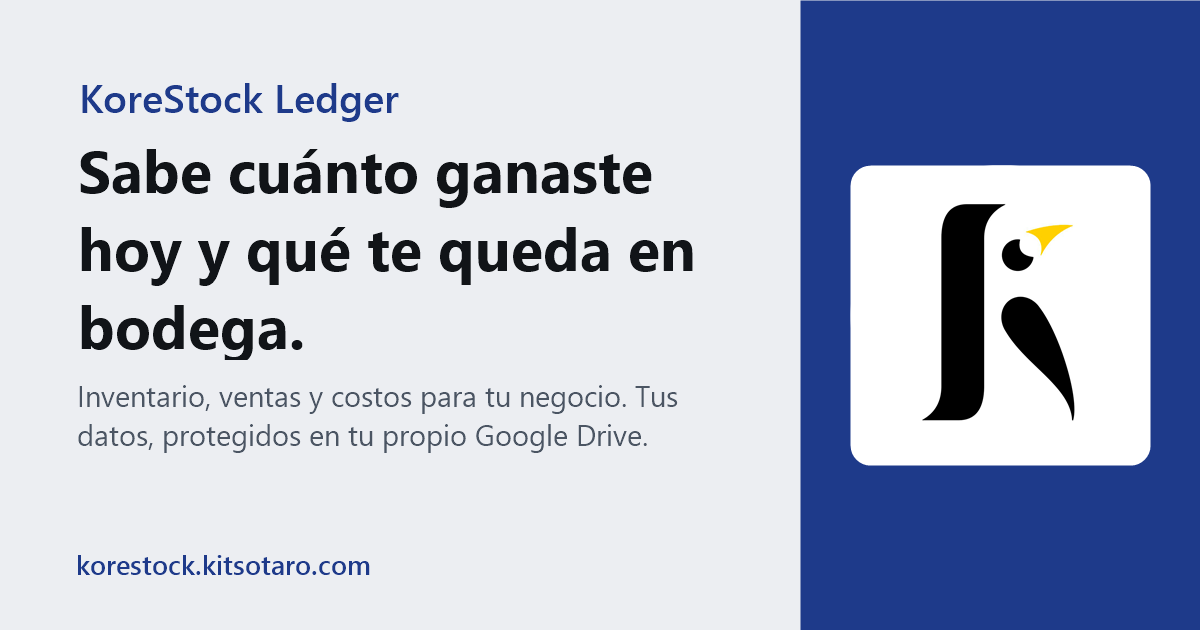
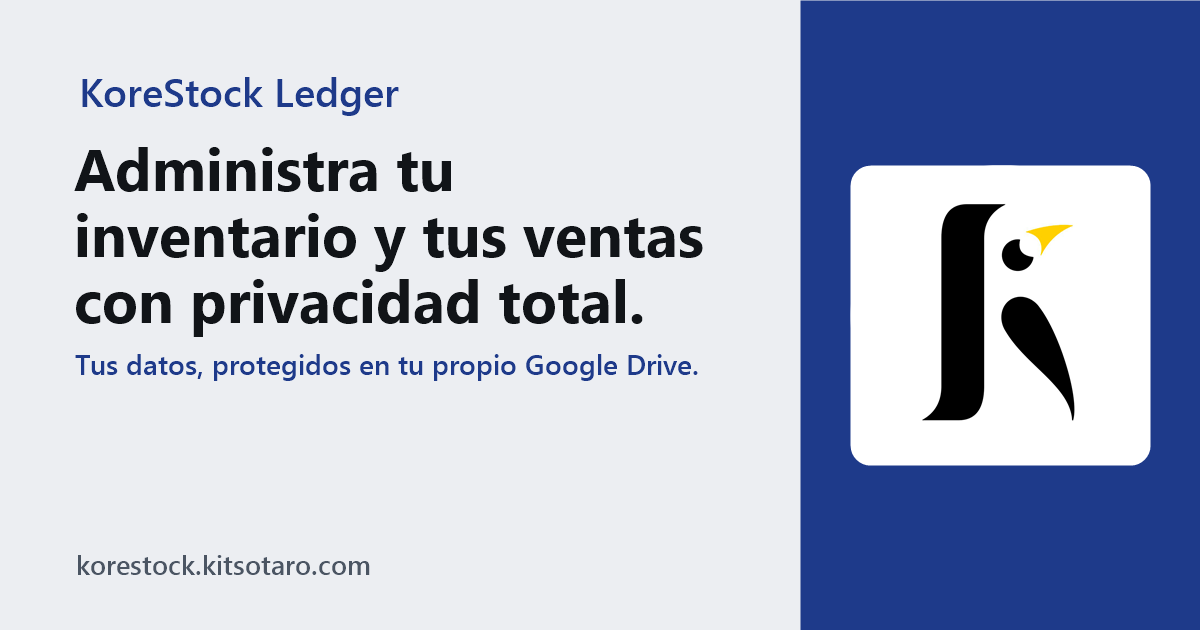
v2.6.31 — Portada con texto nuevo y presentación de capturas; imagen para compartir ajustada

Changed region(s): [[0.0617, 0.2413, 0.5858, 0.7238], [0.0617, 0.1206, 0.3392, 0.2111], [0.0617, 0.8746, 0.3083, 0.9349]]

diff --git a/index.html b/index.html
@@ -4,7 +4,7 @@
   <meta charset="UTF-8">
   <meta name="viewport" content="width=device-width, initial-scale=1, viewport-fit=cover">
   <title>KoreStock Ledger — inventario, ventas y costos para tu negocio</title>
-  <meta name="description" content="Controla tu inventario, ventas y costos desde el teléfono. Sabe cuánto ganaste hoy y qué te queda en bodega. Tus datos viven en tu propio Google Drive.">
+  <meta name="description" content="Administra tu inventario y tus ventas con privacidad total. Tus datos, protegidos en tu propio Google Drive. Registras compras y ventas en segundos y la app calcula tu stock y tu ganancia.">
   <meta name="theme-color" content="#ECEEF2">
   <link rel="canonical" href="https://korestock.kitsotaro.com/">
   <meta name="robots" content="index, follow">
@@ -14,15 +14,15 @@
   <meta property="og:locale" content="es_419">
   <meta property="og:url" content="https://korestock.kitsotaro.com/">
   <meta property="og:title" content="KoreStock Ledger — inventario, ventas y costos para tu negocio">
-  <meta property="og:description" content="Sabe cuánto ganaste hoy y qué te queda en bodega. Registra compras y ventas desde el teléfono; tus datos viven en tu propio Google Drive.">
+  <meta property="og:description" content="Administra tu inventario y tus ventas con privacidad total. Tus datos, protegidos en tu propio Google Drive.">
   <meta property="og:image" content="https://korestock.kitsotaro.com/assets/og-imagen.png">
   <meta property="og:image:width" content="1200">
   <meta property="og:image:height" content="630">
-  <meta property="og:image:alt" content="KoreStock Ledger: sabe cuánto ganaste hoy y qué te queda en bodega.">
+  <meta property="og:image:alt" content="KoreStock Ledger: administra tu inventario y tus ventas con privacidad total.">
   <meta name="twitter:card" content="summary_large_image">
   <meta name="twitter:image" content="https://korestock.kitsotaro.com/assets/og-imagen.png">
   <meta name="twitter:title" content="KoreStock Ledger">
-  <meta name="twitter:description" content="Inventario, ventas y costos para tu negocio, desde el teléfono. Tus datos en tu Google Drive.">
+  <meta name="twitter:description" content="Administra tu inventario y tus ventas con privacidad total. Tus datos, protegidos en tu propio Google Drive.">
   <link rel="manifest" href="manifest.json">
   <link rel="icon" href="assets/favicon-48.png" sizes="48x48" type="image/png">
   <link rel="icon" href="assets/icono-192.png" sizes="192x192" type="image/png">
@@ -70,38 +70,31 @@
       <section class="portada">
         <div class="portada-texto">
           <p class="antetitulo">Inventario · Ventas · Costos</p>
-          <h1>Sabe cuánto ganaste hoy y qué te queda en bodega.</h1>
+          <h1>Administra tu inventario y tus ventas con privacidad total.</h1>
           <p class="portada-destacado">Tus datos, protegidos en tu propio Google Drive.</p>
-          <p class="portada-sub">KoreStock lleva el control de tu negocio desde el teléfono: registras compras y ventas en segundos y la app calcula tu stock, tu ganancia y lo que conviene reabastecer. Tus datos viven en tu propio Google Drive.</p>
+          <p class="portada-sub">KoreStock lleva el control de tu negocio desde donde quieras: registras compras y ventas en segundos y la app calcula tu stock, tu ganancia y en qué conviene invertir.</p>
           <div class="portada-acciones">
             <button type="button" class="boton boton-primario boton-grande" data-accion="entrar" id="boton-entrar">Iniciar sesión con Google</button>
             <p class="estado-entrada" id="estado-entrada" role="status" aria-live="polite"></p>
           </div>
           <p class="portada-legal">Al entrar aceptas los <a href="TERMS.md" data-documento="TERMS.md" data-titulo="Términos de servicio">Términos de servicio</a> y la <a href="PRIVACY.md" data-documento="PRIVACY.md" data-titulo="Política de privacidad">Política de privacidad</a>.</p>
         </div>
-        <!-- Maqueta animada de la app (decorativa, solo HTML y CSS): las ventas del día
-             van entrando y la tarjeta «Hoy» se actualiza. Quieta si se pide menos movimiento. -->
-        <div class="portada-maqueta" id="maqueta-portada" aria-hidden="true">
-          <div class="maqueta-telefono">
-            <div class="maqueta-barra"><span class="maqueta-menu"></span><strong>Dashboard</strong><span class="maqueta-pildora">Hoy</span></div>
-            <div class="maqueta-hoy">
-              <div class="maqueta-hoy-cifras">
-                <div><span class="maqueta-etiqueta">Vendido hoy</span>
-                  <span class="maqueta-cifra"><span class="paso-1">$84.60</span><span class="paso-2">$97.10</span><span class="paso-3">$128.40</span></span>
-                  <span class="maqueta-detalle">↑ 18 % vs. ayer</span></div>
-                <div class="maqueta-ganancia"><span class="maqueta-etiqueta">Ganancia</span><strong><span class="paso-1">$21.15</span><span class="paso-2">$24.30</span><span class="paso-3">$32.10</span></strong></div>
-              </div>
-              <div class="maqueta-accesos"><span>Vender</span><span>Comprar</span><span>Gasto</span><span>Stock</span></div>
-            </div>
-            <div class="maqueta-lista">
-              <div class="maqueta-dia"><span>HOY</span><span>Vendido $128.40</span></div>
-              <div class="maqueta-fila nueva-2"><span class="maqueta-insignia venta">Venta</span><span class="crece"><b>Pepsi Lata 355 ml</b><i>2 cajas de 12 · TK-000214</i></span><b>$31.30</b></div>
-              <div class="maqueta-fila nueva-1"><span class="maqueta-insignia venta">Venta</span><span class="crece"><b>Huevo Cartón 30</b><i>1 cartón · TK-000213</i></span><b>$12.50</b></div>
-              <div class="maqueta-fila"><span class="maqueta-insignia entrada">Entrada</span><span class="crece"><b>Agua Botella 600 ml</b><i>3 fardos de 24 · IN-000088</i></span><b>$43.20</b></div>
-              <div class="maqueta-fila"><span class="maqueta-insignia venta">Venta</span><span class="crece"><b>Coca Cola Vidrio 1.5 L</b><i>6 botellas · TK-000212</i></span><b>$10.80</b></div>
-              <div class="maqueta-fila"><span class="maqueta-insignia venta">Venta</span><span class="crece"><b>Diana Tortillitas 30 g</b><i>10 bolsas · TK-000211</i></span><b>$4.00</b></div>
-            </div>
-            <div class="maqueta-isla"><span></span><span></span><span class="maqueta-mas">+</span><span></span><span></span></div>
+        <!-- Capturas de la app en un contenedor de tamaño fijo (presentacion.js). -->
+        <div class="portada-maqueta presentacion" id="maqueta-portada" aria-roledescription="presentación" aria-label="Capturas de KoreStock">
+          <div class="presentacion-marco">
+            <img class="diapositiva" src="assets/capturas/1-dashboard.jpg" alt="Lo vendido hoy y cada ticket del día" data-leyenda="Lo vendido hoy y cada ticket del día" width="375" height="812" loading="eager" decoding="async">
+            <img class="diapositiva" src="assets/capturas/2-resumen.jpg" alt="Ventas, ganancia y tendencia del período" data-leyenda="Ventas, ganancia y tendencia del período" width="375" height="812" loading="lazy" decoding="async">
+            <img class="diapositiva" src="assets/capturas/3-venta.jpg" alt="Vende en segundos, con la ganancia al instante" data-leyenda="Vende en segundos, con la ganancia al instante" width="375" height="812" loading="lazy" decoding="async">
+            <img class="diapositiva" src="assets/capturas/4-entrada.jpg" alt="Registra compras por caja o por unidad" data-leyenda="Registra compras por caja o por unidad" width="375" height="812" loading="lazy" decoding="async">
+            <img class="diapositiva" src="assets/capturas/5-stock.jpg" alt="Tu stock por marca, producto y sabor" data-leyenda="Tu stock por marca, producto y sabor" width="375" height="812" loading="lazy" decoding="async">
+            <img class="diapositiva" src="assets/capturas/6-panorama.jpg" alt="Retorno, equilibrio y lo que se agota" data-leyenda="Retorno, equilibrio y lo que se agota" width="375" height="812" loading="lazy" decoding="async">
+            <img class="diapositiva" src="assets/capturas/7-gastos.jpg" alt="Gastos del negocio por categoría" data-leyenda="Gastos del negocio por categoría" width="375" height="812" loading="lazy" decoding="async">
+          </div>
+          <p class="presentacion-leyenda" aria-live="polite"></p>
+          <div class="presentacion-controles">
+            <button type="button" class="boton boton-icono" data-paso-diapositiva="-1" aria-label="Captura anterior"><span data-icono="atras" data-icono-clase="icono-sm"></span></button>
+            <span class="presentacion-puntos"><button type="button" data-ir-diapositiva="0" aria-label="Captura 1"></button><button type="button" data-ir-diapositiva="1" aria-label="Captura 2"></button><button type="button" data-ir-diapositiva="2" aria-label="Captura 3"></button><button type="button" data-ir-diapositiva="3" aria-label="Captura 4"></button><button type="button" data-ir-diapositiva="4" aria-label="Captura 5"></button><button type="button" data-ir-diapositiva="5" aria-label="Captura 6"></button><button type="button" data-ir-diapositiva="6" aria-label="Captura 7"></button></span>
+            <button type="button" class="boton boton-icono" data-paso-diapositiva="1" aria-label="Captura siguiente"><span data-icono="adelante" data-icono-clase="icono-sm"></span></button>
           </div>
         </div>
       </section>
@@ -301,6 +294,7 @@
   <!-- Interfaz -->
   <script src="js/ui/componentes.js"></script>
   <script src="js/ui/selector-color.js"></script>
+  <script src="js/ui/presentacion.js"></script>
   <script src="js/ui/cargador.js"></script>
   <script src="js/ui/shell.js"></script>
   <script src="js/ui/selector-archivo.js"></script>

diff --git a/css/pantallas/landing.css b/css/pantallas/landing.css
@@ -18,57 +18,28 @@
 
 .landing main { flex: 1; width: 100%; max-width: 68rem; margin: 0 auto; padding: 0 var(--e-4); }
 .portada { display: grid; gap: var(--e-8); align-items: center; padding: var(--e-10) 0 var(--e-8); }
+.portada-texto { min-width: 0; }
 @media (min-width: 900px) { .portada { grid-template-columns: 1.1fr 0.9fr; padding: 5rem 0 4rem; } }
 .antetitulo { color: var(--primario); font-weight: var(--peso-fuerte); font-size: var(--t-sm); letter-spacing: 0.06em; text-transform: uppercase; }
-.portada h1 { font-size: clamp(2rem, 6vw, 3.25rem); line-height: 1.12; letter-spacing: -0.02em; margin: var(--e-3) 0 var(--e-4); }
-.portada-sub { color: var(--texto-2); font-size: var(--t-lg); max-width: 36rem; }
+.portada h1 { font-size: clamp(2rem, 6vw, 3.1rem); line-height: 1.06; letter-spacing: -0.025em; margin: var(--e-2) 0 var(--e-3); }
+.portada-sub { color: var(--texto-2); font-size: var(--t-lg); line-height: 1.45; max-width: 36rem; margin-top: var(--e-1); }
 .portada-acciones { margin-top: var(--e-6); display: grid; gap: var(--e-2); justify-items: start; }
 .estado-entrada { font-size: var(--t-sm); color: var(--texto-2); min-height: 1.4em; }
 .portada-legal { margin-top: var(--e-3); font-size: var(--t-sm); color: var(--texto-2); }
 .portada-maqueta { display: grid; place-items: center; padding: var(--e-6) var(--e-4); border-radius: var(--r-xl); background: linear-gradient(160deg, var(--primario-suave), var(--superficie-2)); border: 1px solid var(--borde); overflow: hidden; }
 
-/* Maqueta animada: un teléfono con el Dashboard; ciclo de 9 s */
-.maqueta-telefono { position: relative; width: min(19rem, 100%); padding: var(--e-3) var(--e-3) 4.25rem; border-radius: 2rem; background: var(--fondo); border: 6px solid color-mix(in srgb, var(--texto) 88%, transparent); box-shadow: var(--sombra-3); font-size: 0.72rem; overflow: hidden; }
-.maqueta-barra { display: flex; align-items: center; gap: var(--e-2); margin-bottom: var(--e-3); font-size: 0.85rem; }
-.maqueta-menu { width: 0.9rem; height: 0.55rem; border-top: 2px solid var(--texto); border-bottom: 2px solid var(--texto); }
-.maqueta-pildora { margin-left: auto; padding: 2px 10px; border-radius: var(--r-pildora); border: 1px solid var(--borde); background: var(--superficie); font-size: 0.65rem; font-weight: var(--peso-fuerte); }
-.maqueta-hoy { padding: var(--e-3); border-radius: var(--r-md); background: var(--hoy-fondo); color: var(--sobre-hoy); display: grid; gap: var(--e-2); }
-.maqueta-hoy-cifras { display: flex; justify-content: space-between; align-items: flex-start; }
-.maqueta-etiqueta { display: block; font-size: 0.58rem; text-transform: uppercase; letter-spacing: 0.05em; opacity: 0.85; font-weight: var(--peso-fuerte); }
-.maqueta-cifra { display: grid; font-size: 1.55rem; font-weight: var(--peso-titulo); line-height: 1.1; font-variant-numeric: tabular-nums; }
-.maqueta-cifra > span, .maqueta-ganancia strong > span { grid-area: 1 / 1; }
-.maqueta-ganancia { text-align: right; } .maqueta-ganancia strong { display: grid; justify-items: end; font-size: 0.9rem; }
-.maqueta-detalle { font-size: 0.6rem; opacity: 0.85; }
-.maqueta-accesos { display: grid; grid-template-columns: repeat(4, 1fr); gap: 4px; }
-.maqueta-accesos span { padding: 6px 0; border-radius: var(--r-xs); background: color-mix(in srgb, var(--sobre-hoy) 14%, transparent); text-align: center; font-size: 0.58rem; font-weight: var(--peso-fuerte); }
-.maqueta-lista { margin-top: var(--e-3); border-radius: var(--r-md); border: 1px solid var(--borde); background: var(--superficie); overflow: hidden; }
-.maqueta-dia { display: flex; justify-content: space-between; padding: 6px 10px; background: var(--superficie-2); font-size: 0.58rem; font-weight: var(--peso-fuerte); color: var(--texto-2); }
-.maqueta-dia span:last-child { color: var(--venta); font-family: var(--fuente-mono); }
-.maqueta-fila { display: flex; align-items: center; gap: 8px; padding: 7px 10px; border-top: 1px solid var(--borde); }
-.maqueta-fila .crece { display: grid; min-width: 0; } .maqueta-fila .crece b, .maqueta-fila .crece i { white-space: nowrap; overflow: hidden; text-overflow: ellipsis; }
-.maqueta-fila i { font-style: normal; font-size: 0.6rem; color: var(--texto-3); }
-.maqueta-insignia { flex: none; padding: 2px 6px; border-radius: var(--r-pildora); font-size: 0.56rem; font-weight: var(--peso-fuerte); }
-.maqueta-insignia.venta { background: var(--venta-suave); color: var(--venta); }
-.maqueta-insignia.entrada { background: var(--entrada-suave, var(--primario-suave)); color: var(--entrada); }
-.maqueta-isla { position: absolute; left: var(--e-3); right: var(--e-3); bottom: var(--e-3); height: 2.6rem; display: flex; align-items: center; justify-content: space-around; border-radius: var(--r-xl); background: var(--superficie-elevada); border: 1px solid var(--borde); box-shadow: var(--sombra-2); }
-.maqueta-isla span { width: 0.9rem; height: 0.9rem; border-radius: 4px; background: var(--superficie-3); }
-.maqueta-isla .maqueta-mas { width: 2.3rem; height: 2.3rem; margin-top: -1.4rem; border-radius: 50%; display: grid; place-items: center; background: var(--fab); color: var(--sobre-fab); font-size: 1.2rem; box-shadow: var(--sombra-2); }
+/* Presentación de capturas: el marco tiene tamaño fijo (no empuja la página al cambiar) */
+.presentacion { gap: var(--e-3); align-content: center; }
+.presentacion-marco { position: relative; width: min(17.5rem, 78vw); aspect-ratio: 375 / 812; border-radius: 1.9rem; border: 6px solid color-mix(in srgb, var(--texto) 88%, transparent); background: var(--fondo); box-shadow: var(--sombra-3); overflow: hidden; contain: strict; }
+.diapositiva { position: absolute; inset: 0; width: 100%; height: 100%; object-fit: cover; object-position: top; opacity: 0; transition: opacity 450ms var(--curva); }
+.diapositiva.activa { opacity: 1; }
+.presentacion-leyenda { height: 3em; line-height: 1.5; overflow: hidden; max-width: 18rem; text-align: center; font-size: var(--t-sm); font-weight: var(--peso-fuerte); color: var(--texto-2); }
+.presentacion-controles { display: flex; align-items: center; gap: var(--e-2); }
+.presentacion-puntos { display: flex; gap: 6px; }
+.presentacion-puntos button { width: 8px; height: 8px; padding: 0; border: 0; border-radius: 50%; background: var(--borde-fuerte); cursor: pointer; transition: width var(--dur-media) var(--curva); }
+.presentacion-puntos button[aria-current="true"] { width: 22px; border-radius: 4px; background: var(--primario); }
+@media (prefers-reduced-motion: reduce) { .diapositiva { transition: none; } }
 
-/* Las dos ventas nuevas entran por arriba y las cifras cambian con ellas */
-.maqueta-cifra .paso-1, .maqueta-ganancia .paso-1 { animation: maqueta-paso1 9s infinite; }
-.maqueta-cifra .paso-2, .maqueta-ganancia .paso-2 { animation: maqueta-paso2 9s infinite; }
-.maqueta-cifra .paso-3, .maqueta-ganancia .paso-3 { animation: maqueta-paso3 9s infinite; }
-.maqueta-fila.nueva-1 { animation: maqueta-fila1 9s infinite; }
-.maqueta-fila.nueva-2 { animation: maqueta-fila2 9s infinite; }
-@keyframes maqueta-paso1 { 0%, 30% { opacity: 1; } 34%, 100% { opacity: 0; } }
-@keyframes maqueta-paso2 { 0%, 30% { opacity: 0; } 34%, 63% { opacity: 1; } 67%, 100% { opacity: 0; } }
-@keyframes maqueta-paso3 { 0%, 63% { opacity: 0; } 67%, 96% { opacity: 1; } 100% { opacity: 0; } }
-@keyframes maqueta-fila1 { 0%, 30% { opacity: 0; max-height: 0; padding-block: 0; border-top-width: 0; } 36%, 96% { opacity: 1; max-height: 3rem; } 100% { opacity: 0; } }
-@keyframes maqueta-fila2 { 0%, 63% { opacity: 0; max-height: 0; padding-block: 0; border-top-width: 0; } 69%, 96% { opacity: 1; max-height: 3rem; background: var(--venta-suave); } 100% { opacity: 0; } }
-@media (prefers-reduced-motion: reduce) {
-  .maqueta-telefono * { animation: none !important; }
-  .maqueta-cifra .paso-1, .maqueta-cifra .paso-2, .maqueta-ganancia .paso-1, .maqueta-ganancia .paso-2 { opacity: 0; }
-}
 
 .seccion { padding: var(--e-10) 0; border-top: 1px solid var(--borde); }
 .seccion h2 { font-size: clamp(1.5rem, 4vw, 2rem); letter-spacing: -0.01em; }

diff --git a/js/pantallas/grafico-stock.js b/js/pantallas/grafico-stock.js
@@ -33,8 +33,7 @@ const GraficoStock = {
     contenedor.innerHTML = html`
       <div class="tarjeta">
         <div class="tarjeta-titulo"><h2>${seguro(icono('pastel', 'icono-sm'))} Distribución del stock</h2>
-          <span class="fila"><button type="button" class="boton boton-icono" data-grafico="modo-color" aria-label="Colores automáticos" title="Colores automáticos">${seguro(icono('paleta', 'icono-sm'))}</button>
-          <button type="button" class="boton boton-texto boton-sm" data-grafico="tipo"></button></span></div>
+          <button type="button" class="boton boton-texto boton-sm" data-grafico="tipo"></button></div>
         <div class="fila envolver" style="margin-bottom:var(--e-2)">
           <div class="segmentado" role="group" aria-label="Medida">
             <button type="button" data-grafico="medida" data-valor="UNIDADES">Unidades</button>
@@ -42,6 +41,7 @@ const GraficoStock = {
           </div>
           <label class="control" style="min-height:var(--alto-control-sm)" data-grafico-recorte><span class="solo-lector">Cuántas barras</span>
             <select data-grafico="recorte"><option value="TODO">Todas</option><option value="10">5 mayores y 5 menores</option><option value="TOP5">3 mayores y 2 menores</option></select></label>
+          <button type="button" class="boton boton-icono" data-grafico="modo-color" aria-label="Colores automáticos" title="Colores automáticos" style="margin-left:auto">${seguro(icono('paleta', 'icono-sm'))}</button>
         </div>
         <nav class="migas" aria-label="Nivel del gráfico"></nav>
         <div class="contenedor-grafico"><canvas aria-label="Gráfico de distribución del stock" role="img"></canvas></div>
@@ -133,7 +133,7 @@ const GraficoStock = {
     if (!this.contenedor) return;
     const c = this.contenedor;
     const { nivel, grupos, sinAsignar } = this.datosNivel();
-    $('[data-grafico="tipo"]', c).textContent = this.tipo === 'PASTEL' ? 'Ver en barras' : 'Ver en pastel';
+    $('[data-grafico="tipo"]', c).textContent = this.tipo === 'PASTEL' ? 'Ver barras' : 'Ver pastel';
     $$('[data-grafico="medida"]', c).forEach(b => b.setAttribute('aria-pressed', String(b.dataset.valor === this.medida)));
     $('[data-grafico-recorte]', c).hidden = this.tipo !== 'BARRAS';
     $('.migas', c).innerHTML = [html`<button type="button" data-nivel="0">Todo</button>`]

diff --git a/js/ui/presentacion.js b/js/ui/presentacion.js
@@ -1,0 +1,40 @@
+// © 2026 KoreStock Ledger — un proyecto de Kitsótaro · Código disponible, todos los derechos reservados (ver LICENSE).
+// ============================================================
+// PRESENTACION.JS — capturas de la app en la portada (fase UI, 2026-10-23).
+//   - Contenedor de tamaño fijo: cambiar de captura nunca mueve la página.
+//   - Avanza sola cada 4.5 s; se detiene con el cursor encima, con la
+//     pestaña oculta y si se pide menos movimiento. Flechas y puntos.
+//
+// Expone: iniciarPresentacion.
+// Depende de: componentes.js ($, $$).
+// ============================================================
+
+function iniciarPresentacion(raiz) {
+  if (!raiz) return;
+  const diapositivas = $$('.diapositiva', raiz), puntos = $$('[data-ir-diapositiva]', raiz);
+  const leyenda = $('.presentacion-leyenda', raiz);
+  const quieta = matchMedia('(prefers-reduced-motion: reduce)').matches;
+  let actual = 0, temporizador = null;
+  const mostrar = (i) => {
+    actual = (i + diapositivas.length) % diapositivas.length;
+    diapositivas.forEach((d, k) => { d.classList.toggle('activa', k === actual); d.setAttribute('aria-hidden', String(k !== actual)); });
+    puntos.forEach((p, k) => p.setAttribute('aria-current', String(k === actual)));
+    if (leyenda) leyenda.textContent = diapositivas[actual].dataset.leyenda || '';
+  };
+  const detener = () => { clearInterval(temporizador); temporizador = null; };
+  const seguir = () => { detener(); if (!quieta && !document.hidden) temporizador = setInterval(() => mostrar(actual + 1), 4500); };
+  raiz.addEventListener('click', (e) => {
+    const b = e.target.closest('[data-ir-diapositiva], [data-paso-diapositiva]');
+    if (!b) return;
+    mostrar(b.dataset.irDiapositiva !== undefined ? Number(b.dataset.irDiapositiva) : actual + Number(b.dataset.pasoDiapositiva));
+    seguir();
+  });
+  raiz.addEventListener('mouseenter', detener);
+  raiz.addEventListener('mouseleave', seguir);
+  document.addEventListener('visibilitychange', seguir);
+  mostrar(0); seguir();
+}
+
+if (typeof document !== 'undefined') {
+  document.addEventListener('DOMContentLoaded', () => iniciarPresentacion(document.getElementById('maqueta-portada')));
+}

diff --git a/sw.js b/sw.js
@@ -28,7 +28,7 @@ const ARCHIVOS_APP = [
   './js/nucleo/sincronizacion.js', './js/nucleo/sesion.js', './js/nucleo/cola-escritura.js', './js/nucleo/sku.js',
   './js/nucleo/operaciones-catalogo.js', './js/nucleo/operaciones-movimientos.js',
   './js/nucleo/operaciones-clientes.js', './js/nucleo/operaciones-gastos.js', './js/nucleo/operaciones-lotes.js',
-  './js/nucleo/respaldos.js', './js/nucleo/historicos.js', './js/ui/componentes.js', './js/ui/selector-color.js', './js/ui/cargador.js',
+  './js/nucleo/respaldos.js', './js/nucleo/historicos.js', './js/ui/componentes.js', './js/ui/selector-color.js', './js/ui/presentacion.js', './js/ui/cargador.js',
   './js/ui/shell.js', './js/ui/selector-archivo.js', './js/ui/campos.js', './js/ui/selector-producto.js',
   './js/ui/filtros.js', './js/demo/modo-demo.js', './js/pantallas/migracion.js', './js/pantallas/primer-uso.js',
   './js/pantallas/venta.js', './js/pantallas/importar-excel.js', './js/pantallas/entrada.js',

diff --git a/css/pantallas/panorama.css b/css/pantallas/panorama.css
@@ -20,3 +20,11 @@ details[data-tarjeta] > summary > .icono-giro { margin-top: 2px; flex: none; }
 .fila-roi .semaforo { font-size: var(--t-base); }
 .rejilla-panorama > .tarjeta { margin: 0; }
 .fila-roi .sub { font-size: var(--t-xs); color: var(--texto-2); }
+/* Títulos largos en pantallas angostas: bajan a una segunda línea (con ⓘ al final) */
+details[data-tarjeta] > summary > .crece { min-width: 0; }
+@media (max-width: 559px) {
+  .titulo-panorama { display: block; white-space: normal; line-height: 1.25; }
+  .titulo-panorama > .icono { display: inline-block; vertical-align: -3px; margin-right: 4px; }
+  .titulo-panorama .boton-info { display: inline-grid; vertical-align: middle; }
+  .rejilla-panorama > details:not([open]) { height: 9.5rem; }
+}

diff --git a/css/componentes/tarjeta.css b/css/componentes/tarjeta.css
@@ -27,3 +27,6 @@ details.tarjeta > summary::-webkit-details-marker { display: none; }
 details.tarjeta > summary .icono { transition: transform var(--dur-media) var(--curva); }
 details.tarjeta[open] > summary .icono-giro { transform: rotate(180deg); }
 details.tarjeta[open] > summary { margin-bottom: var(--e-3); }
+/* Una etiqueta con botón (Stock: «bruto ▾») baja el botón a otra línea en vez de cortarse */
+.cifra-tarjeta .etiqueta:has(.boton-texto) { flex-wrap: wrap; white-space: normal; }
+.tarjeta-titulo .boton-texto { white-space: nowrap; }
